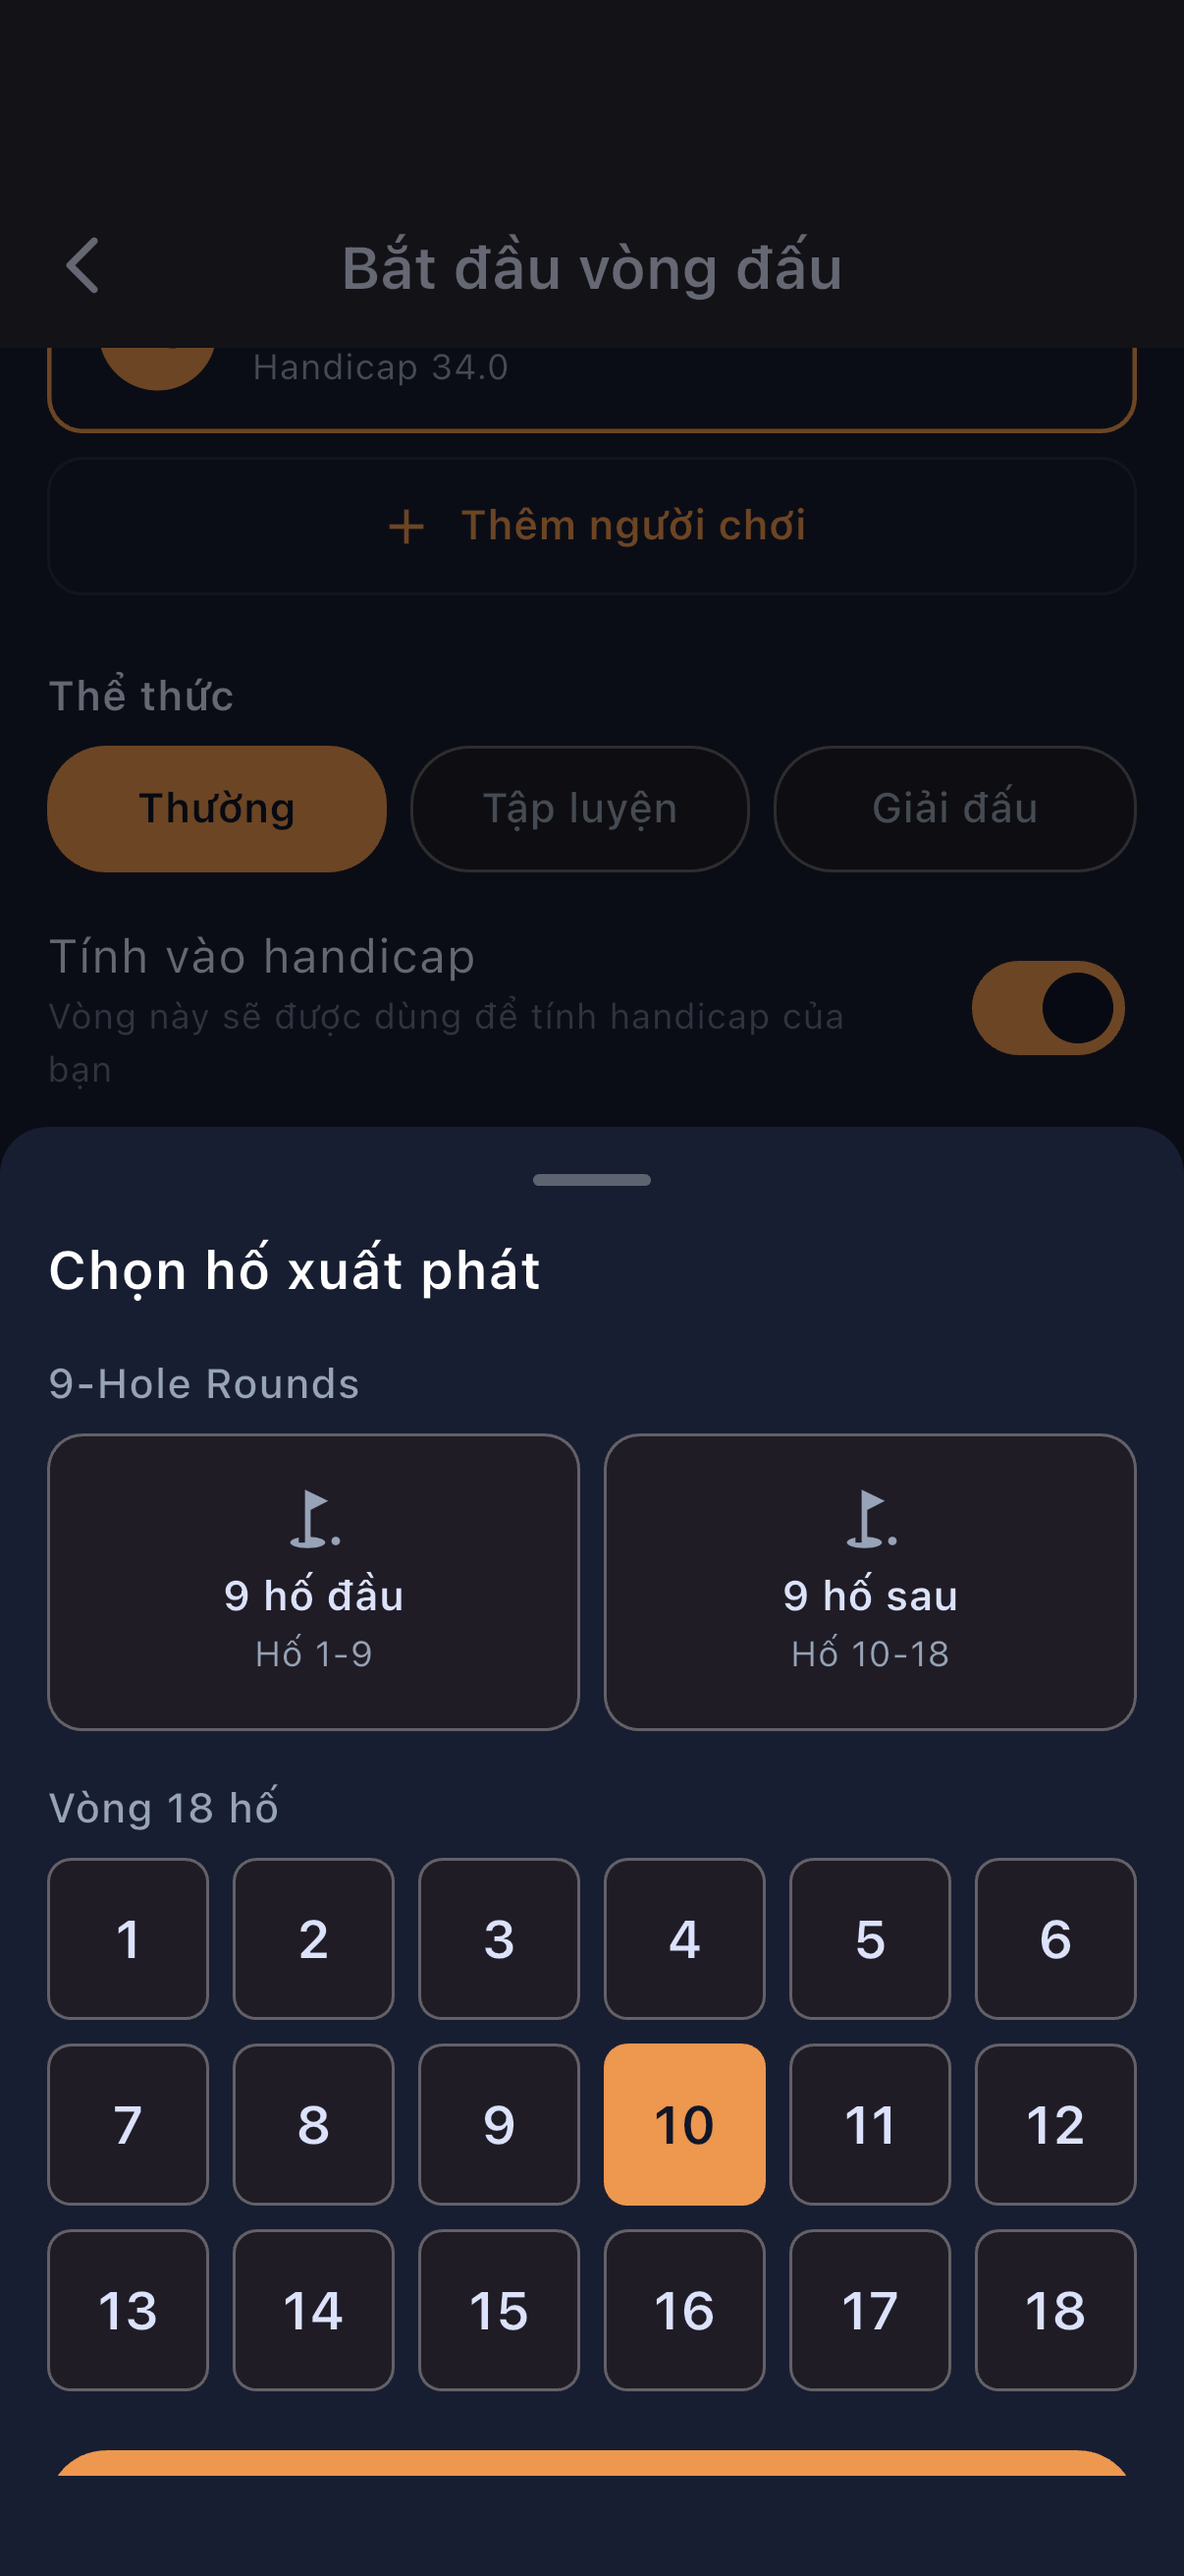
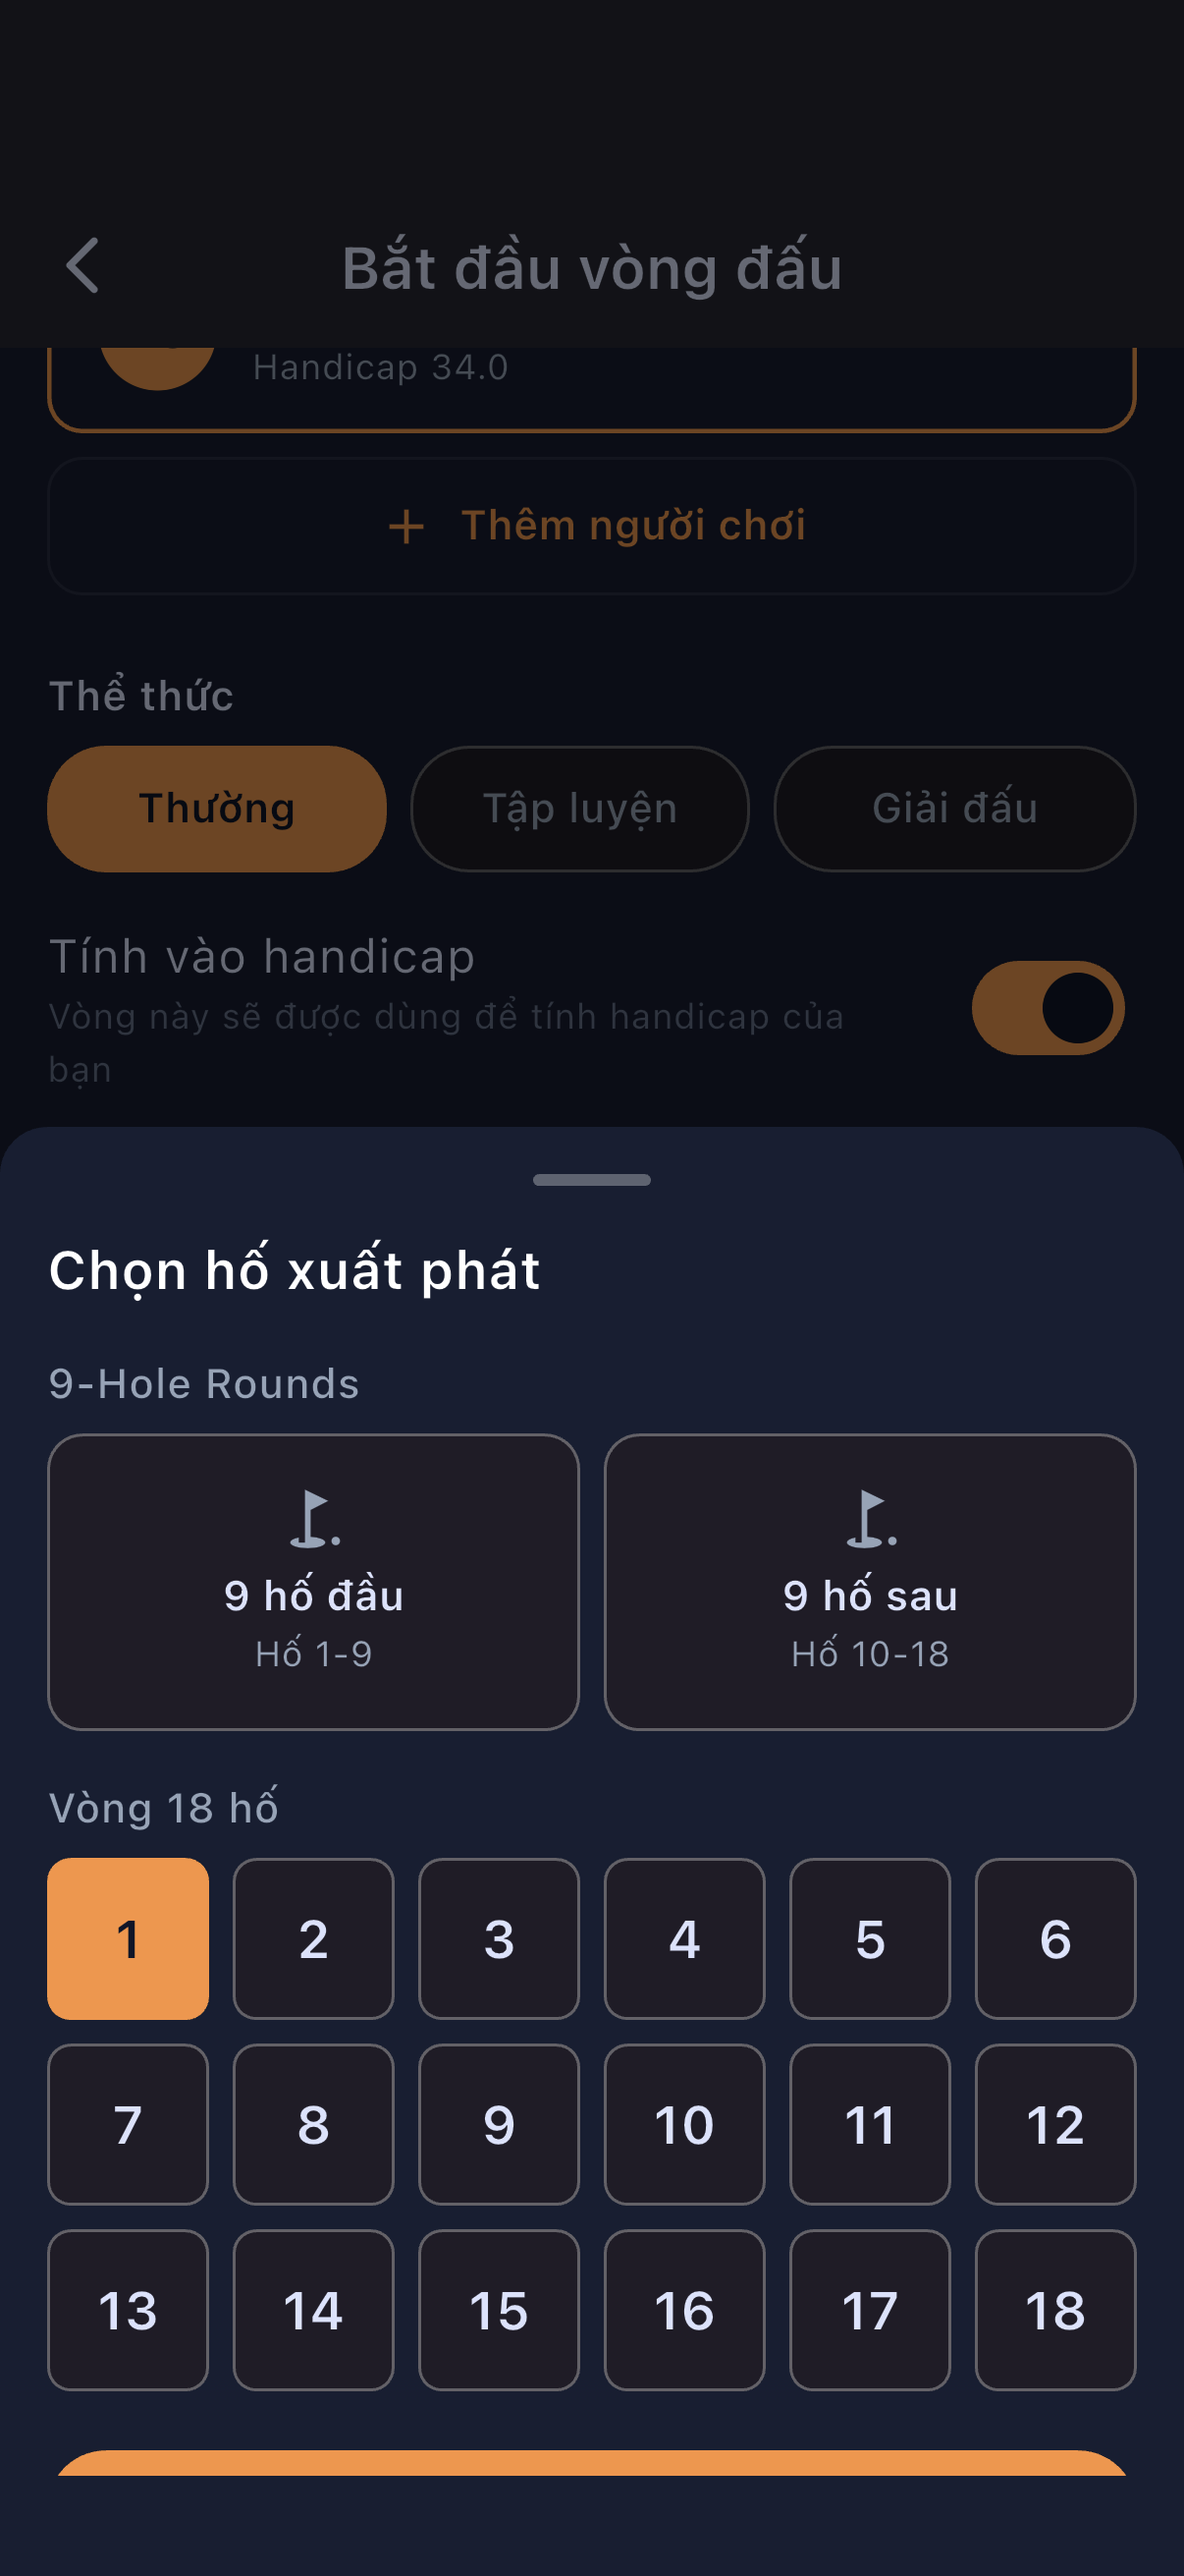
The sale kit no longer misreports a morning round
The kit's "did the round start on the 1st" check matched the exact text
"Hố 1", which never appears when the start hole equals the clock's
suggestion: HolePicker dresses the chosen chip as "Gợi ý: Hố 1" whenever
selectedHole == suggestedHole, and in the morning the suggestion is the
1st. So a kit shot in the morning played a full eighteen, opened on the
1st, and still failed with "the round would not start on the 1st".

_showsTheFirst() now accepts either exact form — "Hố 1" or "Gợi ý: Hố 1"
— keeping the exact match that stops "Hố 1" matching "Hố 10". Screenshots
refreshed from a clean eighteen at Long Biên.

Claude-Session: https://claude.ai/code/session_01LbB82UmBgFZf49huE6eLWe

Changed region(s): [[0.0307, 0.7105, 0.1841, 0.8032], [0.4909, 0.7723, 0.6443, 0.865]]

diff --git a/apps/mobile/integration_test/sale_kit_test.dart b/apps/mobile/integration_test/sale_kit_test.dart
@@ -203,13 +203,30 @@ Future<void> _startOnTheFirst(WidgetTester tester) async {
     await tapIfPresent(tester, find.widgetWithText(FilledButton, 'Xác nhận'));
     await tester.pumpAndSettle(const Duration(seconds: 2));
 
-    if (find.text('Hố 1').evaluate().isNotEmpty) return;
+    if (_showsTheFirst()) return;
   }
 
-  if (find.text('Hố 1').evaluate().isEmpty) {
+  if (!_showsTheFirst()) {
     _missed.add('the round would not start on the 1st');
   }
 }
+
+/// The form saying the round starts on the 1st.
+///
+/// Two chips can say it. "Hố 1" is the golfer's own choice. "Gợi ý: Hố 1" is
+/// the morning form, where the clock's suggestion *is* the 1st and picking it
+/// leaves the chip in its suggestion dress — `HolePicker` shows the suggestion
+/// chip whenever `selectedHole == suggestedHole`. A kit shot in the morning
+/// therefore starts on the 1st while the exact text "Hố 1" never appears,
+/// which is how this run of the kit reported a miss on a round that opened on
+/// the 1st and walked to the 18th.
+///
+/// Both are exact matches on purpose: `textContaining('Hố 1')` also matches
+/// "Hố 10", which is precisely the confusion that let a failed attempt report
+/// success once before.
+bool _showsTheFirst() =>
+    find.text('Hố 1').evaluate().isNotEmpty ||
+    find.text('Gợi ý: Hố 1').evaluate().isNotEmpty;
 
 /// The four screens a golfer lives in, on the opening hole.
 Future<void> _theScreensOfAHole(WidgetTester tester) async {
